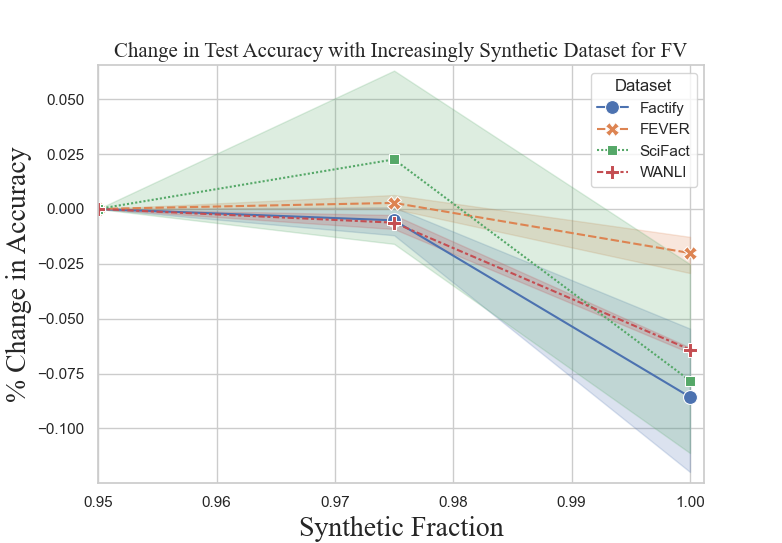
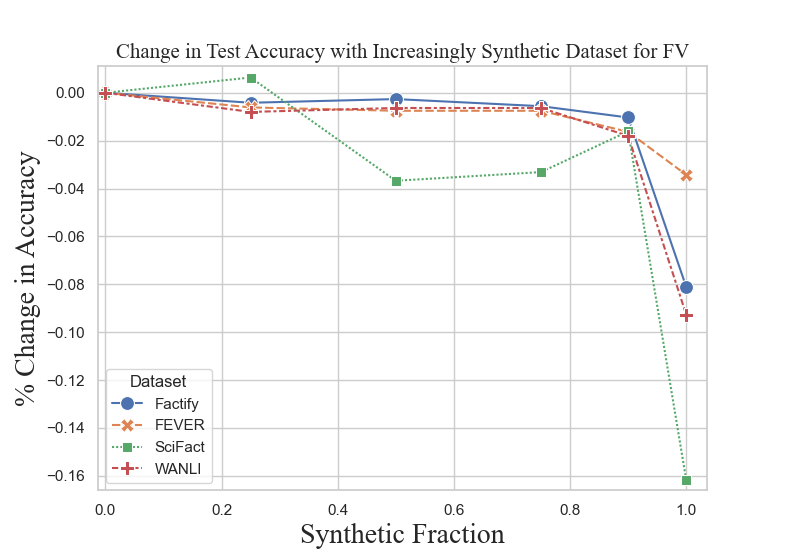
Updated README

diff --git a/README.md b/README.md
@@ -2,6 +2,18 @@
  Repository for the work presented in: [A Little Human Data Goes A Long Way]().
  
  The key result of our work is that Fact Verification and Question Answering systems trained on purely synthetic data can be improved if we include minimal amounts of human data during training. 
+ 
+ We show that the performance decline associated with replacing human generated data with synthetic data is most chronic only after crossing 90% replacement.
+ 
+ ![Figure 1: Change in model performance as the proportion of synthetic points in the training data is increased. Across datasets, the performance decrease when moving from 0\% to 90\% synthetic data is often less than that of moving from 90\% to purely synthetic data.](figures/fv.png)
+ 
+ Surprisingly, this finding persists until the very end, with the performance drop between 97.5\% and 100\% replacement being significant across all datasets. 
+ 
+ ![Figure 2: Model performance as the synthetic proportion of the training data varies from 95\% to 100\%. Across all datasets and random seeds, having just 2.5\% of the training dataset being human generated boosts performance.](figures/qa.png)
+ 
+ Finally we study the performance tradeoff implied by the use of purely synthetic data, discovering that the performance boost provided by just 200 human generated can only be matched by an order of magnitude more of synthetic data. 
+ 
+ ![Adding 200 real data points is as effective as adding an order of magnitude more synthetic data points.](figures/wanli.png)
 
 See the paper to learn more. 
  
